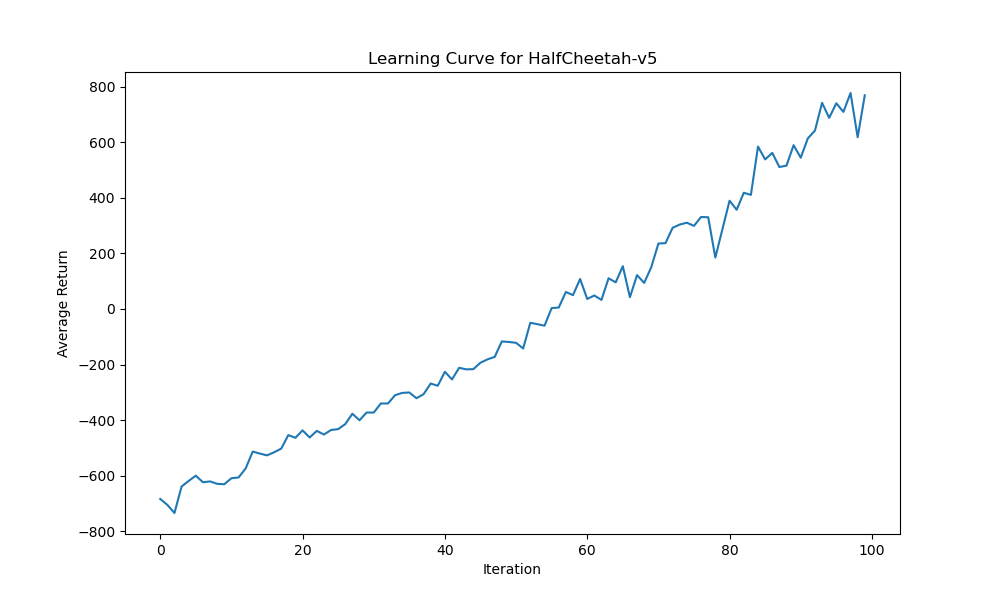
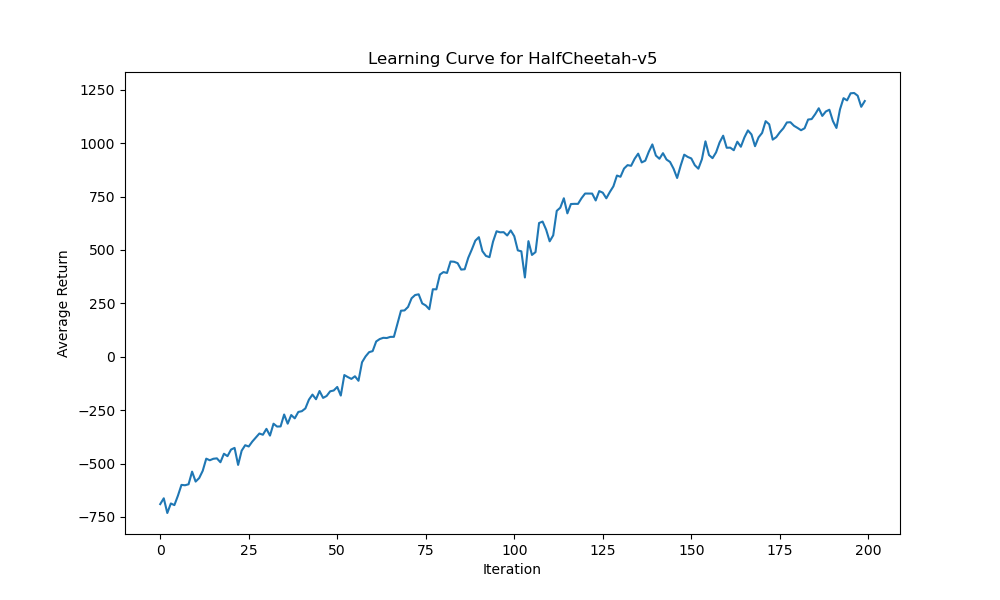
train new policies

diff --git a/HWs/HW8/debug.py b/HWs/HW8/debug.py
@@ -151,7 +151,7 @@ def compute_baseline_21(nn_baseline, observations, rewards_to_go):
         baseline_values = nn_baseline(observations).squeeze()
 
         rtg_mean = rewards_to_go.mean()
-        rtg_std = rewards_to_go.std() + 1e-5
+        rtg_std = rewards_to_go.std()
 
         baseline_mean = baseline_values.mean()
         baseline_std = baseline_values.std() + 1e-5
@@ -223,7 +223,7 @@ def train_PG_15(env_name,
         print(f"********** Iteration {iter} **********")
 
         # Sample trajectories
-        paths, timesteps = sample_trajectories_12(env, policy, batch_size, seed=seed+iter*1000)
+        paths, timesteps = sample_trajectories_12(env, policy, batch_size, seed=seed)
         total_timesteps += timesteps
 
         # Build tensors
@@ -337,12 +337,12 @@ def test_half_cheetah():
     env_name = "HalfCheetah-v5"
     hid_size = 32
     num_layers = 2
-    use_baseline = True  # This is a good candidate for 2.4
-    num_iterations = 100
-    batch_size = 30000 
+    use_baseline = True  
+    num_iterations = 200
+    batch_size = 20000 
     gamma = 0.95
     normalize_returns = True
-    learning_rate = 2e-2  # Reasonable value for 2.4
+    learning_rate = 1e-2  
     seed = 0
     
     start_time = time.time()
